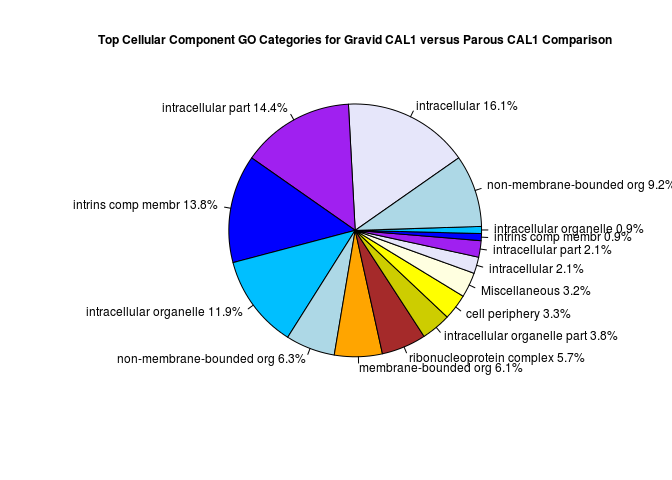
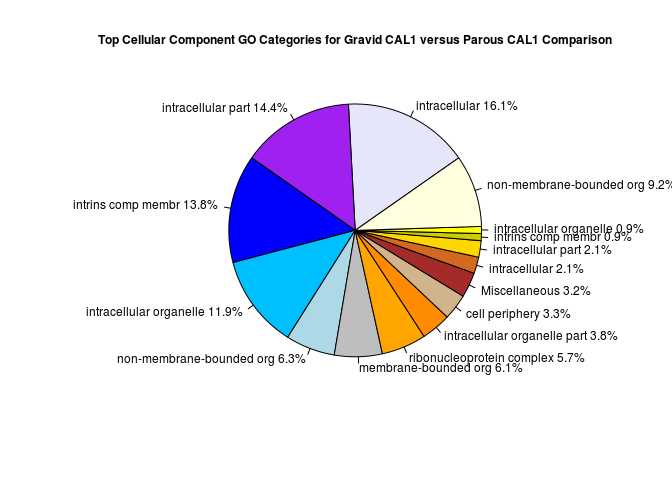
added Parous female only for Fisher's exact test comparison for BP

Changed region(s): [[0.5, 0.3125, 0.7188, 0.75]]

diff --git a/Culex_GO_Figs_09072018.md b/Culex_GO_Figs_09072018.md
@@ -24,14 +24,15 @@ tot_data_MF <- list(Parous_only[c(1:nrow(Parous_only)),3],DGC_MF_grVpa[c(1:nrow(
 
 
 #Getting the top 14 BP categories
+Parous_only_BP <- read.table("./data/GO_analysis_parous_all/parous_all_GO_Dist_Level3_first3cols_BP.txt", sep = "\t", header = T)
 DGC_BP_grVpa <- read.table("./data/GO_level3Dist_data_analysis_09102018/gravidVparous/gravidVparous_GODist_level3_first3cols_BP.txt", sep = "\t", header = T)
 DGC_BP_paVma <- read.table("./data/GO_level3Dist_data_analysis_09102018/parousVmales/parousVmales_GODist_level3_first3cols_BP.txt", sep = "\t", header = T)
 DGC_BP_paVpip <- read.table("./data/GO_level3Dist_data_analysis_09102018/parousVpipiens/parousVpipiens_GODist_level3_first3cols_BP.txt", sep = "\t", header = T)
 DGC_BP_grVpip <- read.table("./data/GO_level3Dist_data_analysis_09102018/gravidVpipiens/gravidVpipiens_GODist_level3_first3cols_BP.txt", sep = "\t", header = T)
 
-top_14_BP <- list(DGC_BP_grVpa[c(1:14),3], DGC_BP_paVma[c(1:14),3], DGC_BP_paVpip[c(1:14),3], DGC_BP_grVpip[c(1:14),3])
+top_14_BP <- list(Parous_only_BP[c(1:14),3],DGC_BP_grVpa[c(1:14),3], DGC_BP_paVma[c(1:14),3], DGC_BP_paVpip[c(1:14),3], DGC_BP_grVpip[c(1:14),3])
 
-tot_data_BP <- list(DGC_BP_grVpa[c(1:nrow(DGC_BP_grVpa)),3], DGC_BP_paVma[c(1:nrow(DGC_BP_paVma)),3], DGC_BP_paVpip[c(1:nrow(DGC_BP_paVpip)),3], DGC_BP_grVpip[c(1:nrow(DGC_BP_grVpip)),3])
+tot_data_BP <- list(Parous_only_BP[c(1:nrow(Parous_only_BP)),3],DGC_BP_grVpa[c(1:nrow(DGC_BP_grVpa)),3], DGC_BP_paVma[c(1:nrow(DGC_BP_paVma)),3], DGC_BP_paVpip[c(1:nrow(DGC_BP_paVpip)),3], DGC_BP_grVpip[c(1:nrow(DGC_BP_grVpip)),3])
 
 
 #Getting the top 14 CC categories
@@ -67,7 +68,7 @@ tot_BP <- lapply(tot_data_BP, sum)
 inv_misc_cat_BP <- lapply(top_14_BP, sum)
 misc_cat_BP <- (unlist(tot_BP)) - (unlist(inv_misc_cat_BP))
 
-data2_BP <- as.data.frame(top_14_BP, col.names = c("DGC_BP_grVpa", "DGC_BP_paVma", "DGC_BP_paVpip", "DGC_BP_grVpip"))
+data2_BP <- as.data.frame(top_14_BP, col.names = c("Parous_only","DGC_BP_grVpa", "DGC_BP_paVma", "DGC_BP_paVpip", "DGC_BP_grVpip"))
 
 Updata_BP <- rbind(data2_BP, misc_cat_BP)
 
@@ -102,11 +103,14 @@ Rounded_Percentages_CC <- round(Percentages_CC, 1)
 
 ###### "substrate-specific transporter activity" = "sub-spec transport act"
 
+###### "transmembrane transporter activity" = "transmem transp act"
+
 ``` r
 lbls <- c(as.character(Parous_only[c(1:14),2]), "Miscellaneous")
 lbls <- gsub("structural constituent of ribosome", "struc const ribosome", lbls)
 lbls <- gsub("guanyl-nucleotide exchange factor", "guan-nuc ex factor", lbls)
 lbls <- gsub("substrate-specific transporter activity", "sub-spec transport act", lbls)
+lbls <- gsub("transmembrane transporter activity", "transmem transp act", lbls)
 lbls <- paste(lbls, Rounded_Percentages_MF$Parous_only) # add percents to labels
 lbls <- paste(lbls,"%",sep="") # ad % to labels 
 ParO_pie_MF <- pie(Rounded_Percentages_MF$Parous_only, labels =lbls, main = "Top Molecular Function GO Categories for Parous CAL1", radius = 0.9, col = rainbow(length(lbls)), cex = 0.75, cex.main = 0.75, tck=.2, init.angle = 30)
@@ -119,6 +123,7 @@ lbls <- c(as.character(DGC_MF_grVpa[c(1:14),2]), "Miscellaneous")
 lbls <- gsub("structural constituent of ribosome", "struc const ribosome", lbls)
 lbls <- gsub("guanyl-nucleotide exchange factor", "guan-nuc ex factor", lbls)
 lbls <- gsub("substrate-specific transporter activity", "sub-spec transport act", lbls)
+lbls <- gsub("transmembrane transporter activity", "transmem transp act", lbls)
 lbls <- paste(lbls, Rounded_Percentages_MF$DGC_MF_grVpa) # add percents to labels
 lbls <- paste(lbls,"%",sep="") # ad % to labels 
 grVpa_pie_MF <- pie(Rounded_Percentages_MF$DGC_MF_grVpa, labels =lbls, main = "Top Molecular Function GO Categories for Gravid CAL1 versus Parous CAL1 Comparison", radius = 0.9, col = rainbow(length(lbls)), cex = 0.75, cex.main = 0.75, tck=.2, init.angle = 30)
@@ -130,6 +135,7 @@ grVpa_pie_MF <- pie(Rounded_Percentages_MF$DGC_MF_grVpa, labels =lbls, main = "T
 lbls <- c(as.character(DGC_MF_paVma[c(1:14),2]), "Miscellaneous")
 lbls <- gsub("structural constituent of ribosome", "struc const ribosome", lbls)
 lbls <- gsub("guanyl-nucleotide exchange factor", "guan-nuc ex factor", lbls)
+lbls <- gsub("transmembrane transporter activity", "transmem transp act", lbls)
 lbls <- gsub("substrate-specific transporter activity", "sub-spec transport act", lbls)
 lbls <- paste(lbls, Rounded_Percentages_MF$DGC_MF_paVma) 
 lbls <- paste(lbls,"%",sep="") 
@@ -144,6 +150,7 @@ lbls <- gsub("structural constituent of ribosome", "struc const ribosome", lbls)
 lbls <- gsub("serine-type endopeptidase activity", "ser-type endopep act", lbls)
 lbls <- gsub("guanyl-nucleotide exchange factor", "guan-nuc ex factor", lbls)
 lbls <- gsub("substrate-specific transporter activity", "sub-spec transport act", lbls)
+lbls <- gsub("transmembrane transporter activity", "transmem transp act", lbls)
 lbls <- paste(lbls, Rounded_Percentages_MF$DGC_MF_paVpip) 
 lbls <- paste(lbls,"%",sep="") 
 paVpip_pie_MF <- pie(Rounded_Percentages_MF$DGC_MF_paVpip, labels =lbls, main = "Top Molecular Function GO Categories for Parous CAL1 versus IL2 Comparison", radius = 0.9, col = rainbow(length(lbls)), cex = 0.75, cex.main = 0.75, tck=.2, init.angle = 30)
@@ -157,6 +164,7 @@ lbls <- gsub("structural constituent of ribosome", "struc const ribosome", lbls)
 lbls <- gsub("serine-type endopeptidase activity", "ser-type endopep act", lbls)
 lbls <- gsub("guanyl-nucleotide exchange factor", "guan-nuc ex factor", lbls)
 lbls <- gsub("substrate-specific transporter activity", "sub-spec transport act", lbls)
+lbls <- gsub("transmembrane transporter activity", "transmem transp act", lbls)
 lbls <- paste(lbls, Rounded_Percentages_MF$DGC_MF_grVpip) 
 lbls <- paste(lbls,"%",sep="") 
 grVpip_pie_MF <- pie(Rounded_Percentages_MF$DGC_MF_grVpip, labels =lbls, main = "Top Molecular Function GO Categories for Gravid CAL1 versus IL2 Comparison", radius = 0.9, col = rainbow(length(lbls)), cex = 0.75, cex.main = 0.75, tck=.2, init.angle = 30)
@@ -176,17 +184,33 @@ grVpip_pie_MF <- pie(Rounded_Percentages_MF$DGC_MF_grVpip, labels =lbls, main = 
 
 ###### "single-organism cellular process" = "single-org cell process"
 
+###### "single-organism metabolic process" = "single-org metabol process"
+
+``` r
+lbls <- c(as.character(Parous_only_BP[c(1:14),2]), "Miscellaneous")
+lbls <- gsub("regulation of transcription, DNA-templated", "reg transcript, DNA-temp", lbls)
+lbls <- gsub("establishment of localization", "establish localization", lbls)
+lbls <- gsub("single-organism cellular process", "single-org cell process", lbls)
+lbls <- gsub("single-organism metabolic process", "single-org metabol process", lbls)
+lbls <- paste(lbls, Rounded_Percentages_BP$Parous_only) # add percents to labels
+lbls <- paste(lbls,"%",sep="") # ad % to labels 
+Parous_only_BP <- pie(Rounded_Percentages_BP$Parous_only, labels =lbls, main = "Top Biological Process GO Categories for Parous CAL1", radius = 0.9, cex = 0.75, cex.main = 0.75, tck=.2, init.angle = 120)
+```
+
+![](Culex_GO_Figs_09072018_files/figure-markdown_github/BP%20GO%20Figs-1.png)
+
 ``` r
 lbls <- c(as.character(DGC_BP_grVpa[c(1:14),2]), "Miscellaneous")
 lbls <- gsub("regulation of transcription, DNA-templated", "reg transcript, DNA-temp", lbls)
 lbls <- gsub("establishment of localization", "establish localization", lbls)
 lbls <- gsub("single-organism cellular process", "single-org cell process", lbls)
+lbls <- gsub("single-organism metabolic process", "single-org metabol process", lbls)
 lbls <- paste(lbls, Rounded_Percentages_BP$DGC_BP_grVpa) # add percents to labels
 lbls <- paste(lbls,"%",sep="") # ad % to labels 
 grVpa_pie_BP <- pie(Rounded_Percentages_BP$DGC_BP_grVpa, labels =lbls, main = "Top Biological Process GO Categories for Gravid CAL1 versus Parous CAL1 Comparison", radius = 0.9, cex = 0.75, cex.main = 0.75, tck=.2, init.angle = 120)
 ```
 
-![](Culex_GO_Figs_09072018_files/figure-markdown_github/BP%20GO%20Figs-1.png)
+![](Culex_GO_Figs_09072018_files/figure-markdown_github/BP%20GO%20Figs-2.png)
 
 ``` r
 lbls <- c(as.character(DGC_BP_paVma[c(1:14),2]), "Miscellaneous")
@@ -194,12 +218,13 @@ lbls <- gsub("regulation of transcription, DNA-templated", "reg transcript, DNA-
 lbls <- gsub("carbohydrate metabolic process", "carb metabol proc", lbls)
 lbls <- gsub("establishment of localization", "establish localization", lbls)
 lbls <- gsub("single-organism cellular process", "single-org cell process", lbls)
+lbls <- gsub("single-organism metabolic process", "single-org metabol process", lbls)
 lbls <- paste(lbls, Rounded_Percentages_BP$DGC_BP_paVma) 
 lbls <- paste(lbls,"%",sep="") 
 paVma_pie_BP <- pie(Rounded_Percentages_BP$DGC_BP_paVma, labels =lbls, main = "Top Biological Process GO Categories for Parous CAL1 versus Male CAL1 Comparison", radius = 0.9, cex = 0.75, cex.main = 0.75, tck=.2, init.angle = 120)
 ```
 
-![](Culex_GO_Figs_09072018_files/figure-markdown_github/BP%20GO%20Figs-2.png)
+![](Culex_GO_Figs_09072018_files/figure-markdown_github/BP%20GO%20Figs-3.png)
 
 ``` r
 lbls <- c(as.character(DGC_BP_paVpip[c(1:14),2]), "Miscellaneous")
@@ -207,12 +232,13 @@ lbls <- gsub("regulation of transcription, DNA-templated", "reg transcript, DNA-
 lbls <- gsub("carbohydrate metabolic process", "carb metabol proc", lbls)
 lbls <- gsub("establishment of localization", "establish localization", lbls)
 lbls <- gsub("single-organism cellular process", "single-org cell process", lbls)
+lbls <- gsub("single-organism metabolic process", "single-org metabol process", lbls)
 lbls <- paste(lbls, Rounded_Percentages_BP$DGC_BP_paVpip) 
 lbls <- paste(lbls,"%",sep="") 
 paVpip_pie_BP <- pie(Rounded_Percentages_BP$DGC_BP_paVpip, labels =lbls, main = "Top Biological Process GO Categories for Parous CAL1 versus IL2 Comparison", radius = 0.9,  cex = 0.75, cex.main = 0.75, tck=.2, init.angle = 120)
 ```
 
-![](Culex_GO_Figs_09072018_files/figure-markdown_github/BP%20GO%20Figs-3.png)
+![](Culex_GO_Figs_09072018_files/figure-markdown_github/BP%20GO%20Figs-4.png)
 
 ``` r
 lbls <- c(as.character(DGC_BP_grVpip[c(1:14),2]), "Miscellaneous")
@@ -220,14 +246,15 @@ lbls <- gsub("regulation of transcription, DNA-templated", "reg transcript, DNA-
 lbls <- gsub("carbohydrate metabolic process", "carb metabol proc", lbls)
 lbls <- gsub("establishment of localization", "establish localization", lbls)
 lbls <- gsub("single-organism cellular process", "single-org cell process", lbls)
+lbls <- gsub("single-organism metabolic process", "single-org metabol process", lbls)
 lbls <- paste(lbls, Rounded_Percentages_BP$DGC_BP_grVpip) 
 lbls <- paste(lbls,"%",sep="") 
 grVpip_pie_BP <- pie(Rounded_Percentages_BP$DGC_BP_grVpip, labels =lbls, main = "Top Biological Process GO Categories for Gravid CAL1 versus IL2 Comparison", radius = 0.9, cex = 0.75, cex.main = 0.75, tck=.2, init.angle = 120)
 ```
 
-![](Culex_GO_Figs_09072018_files/figure-markdown_github/BP%20GO%20Figs-4.png)
+![](Culex_GO_Figs_09072018_files/figure-markdown_github/BP%20GO%20Figs-5.png)
 
-##### Cellular Component GO Comparison Charts
+##### Cellular Component GO Comparison Charts - left in for the fun of it, but not used in final paper.
 
 ###### Here, I used the following abbreviations for my pie chart labels:
 
@@ -242,7 +269,7 @@ grVpip_pie_BP <- pie(Rounded_Percentages_BP$DGC_BP_grVpip, labels =lbls, main = 
 ###### "intrinsic component of membrane" = "intrins comp membr"
 
 ``` r
-col_schema <- c("lavender", "purple", "blue", "deepskyblue", "lightblue", "orange", "brown", "yellow3", "yellow", "lightyellow")
+col_schema <- c("lavender", "purple", "blue", "deepskyblue", "lightblue", "grey", "orange","darkorange", "tan", "brown", "chocolate", "gold", "yellow3", "yellow", "lightyellow")
 
 lbls <- c(as.character(DGC_CC_grVpa[c(1:9),2]), "Miscellaneous")
 lbls <- gsub("regulation of transcription, DNA-templated", "reg transcript, DNA-temp", lbls)
